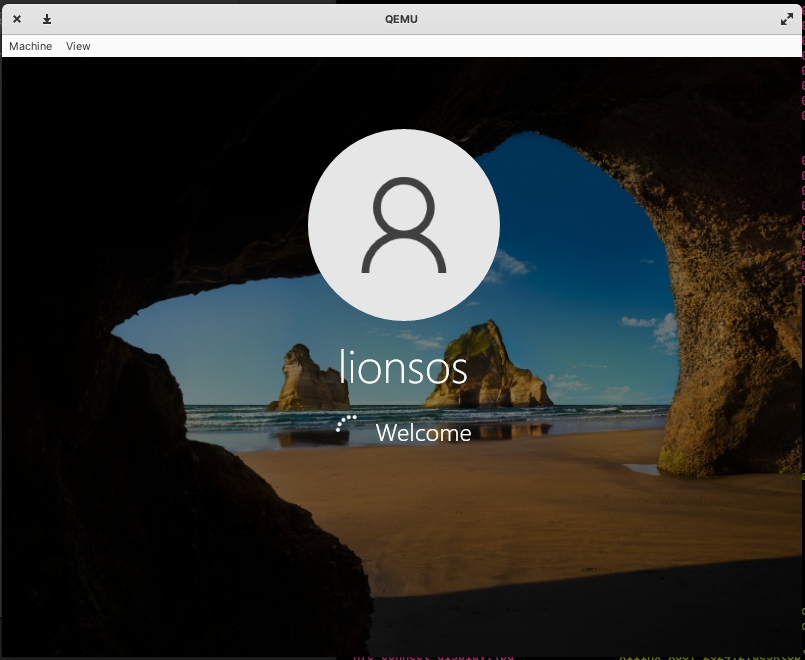
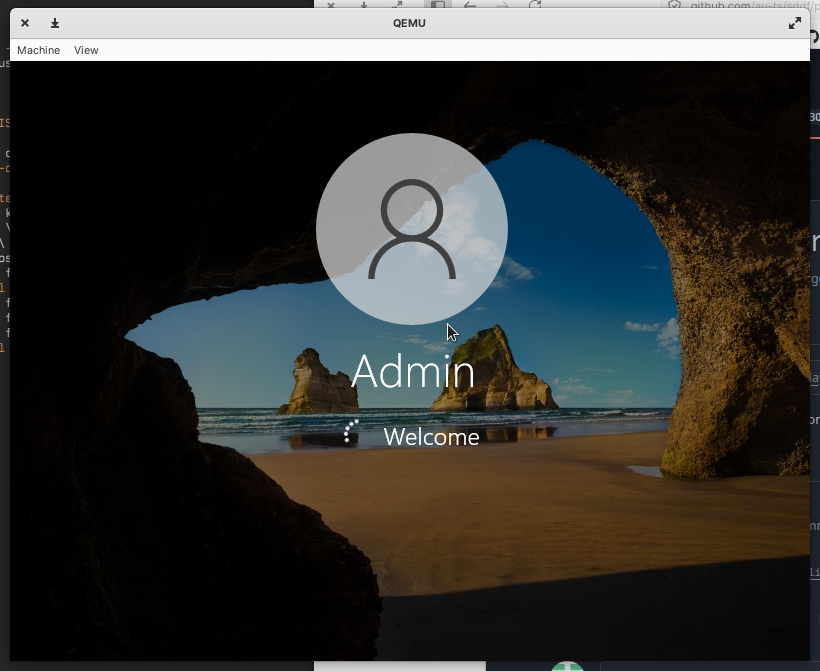
Replace downloaded image with auto-installed one

Changed region(s): [[0.0, 0.0, 1.0, 1.0], [0.2174, 0.4242, 0.3106, 0.4545]]

diff --git a/README.md b/README.md
@@ -64,7 +64,7 @@ tar xf microkit-sdk-2.1.0-linux-x86-64-apicv.tar.gz
 
 ##### Pre-installed
 
-This image has Windows 10 pre-installed, it is ~16GB downloaded, ~30GB unzipped.
+This image has Windows 10 pre-installed, it is ~5GB downloaded, ~12GB unzipped.
 
 ```sh
 wget https://sel4.ivanvelickovic.com/windows/disk.img.xz
